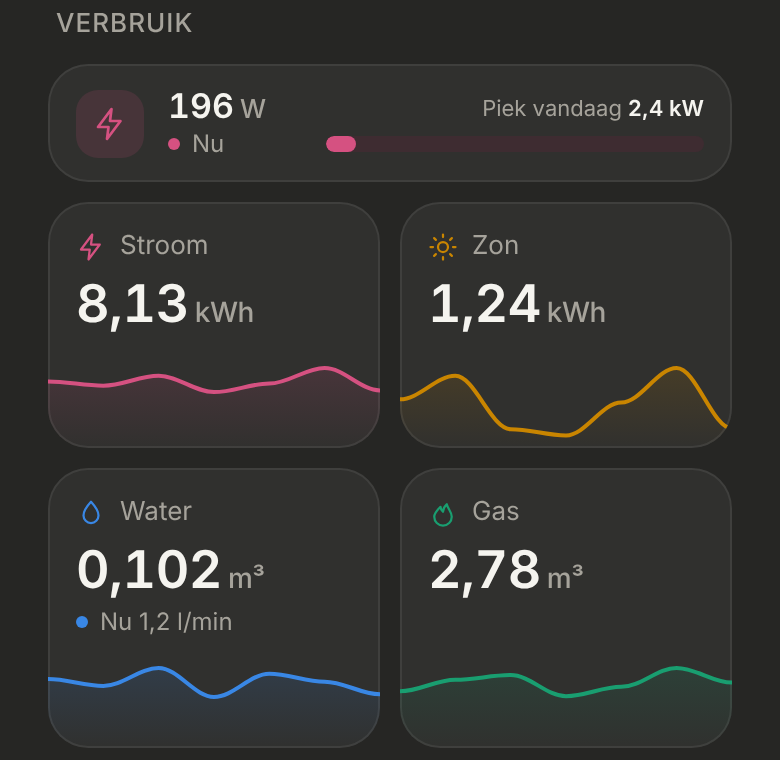
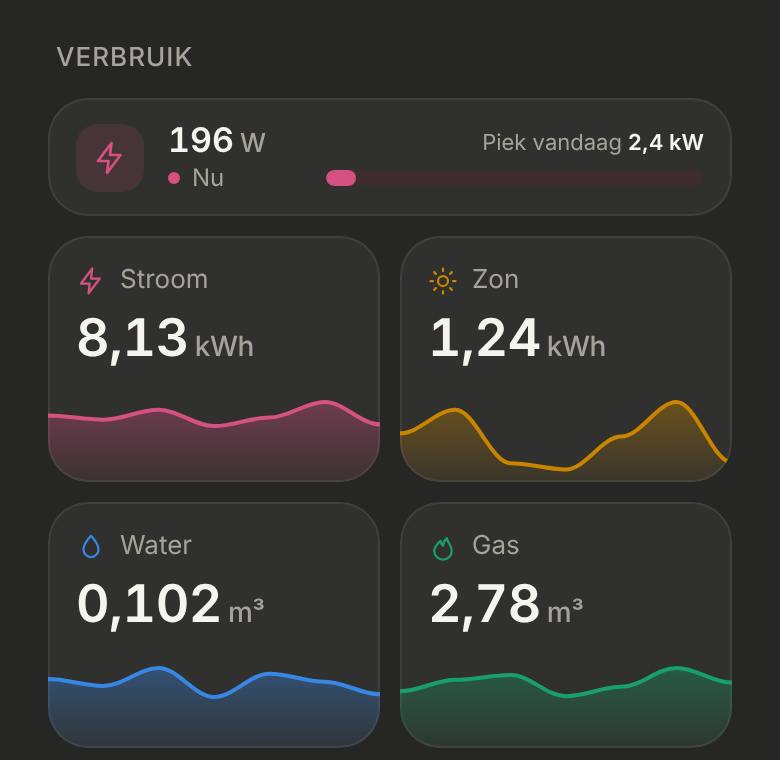
Verbruik: remove the water flow line, the sensor isn't connected
Claude-Session: https://claude.ai/code/session_01KM6EwXvT22zbGn1J5Xot1E

diff --git a/src/config/statistics.ts b/src/config/statistics.ts
@@ -30,8 +30,6 @@ export interface StatisticTileConfig {
   entity: string;
   /** Digits after the comma, e.g. 2 for "8,13 kWh". */
   decimals: number;
-  /** A live value under today's value, e.g. the water flow: "Nu 1,2 l/min". */
-  now?: { entity: string; unit: string; decimals: number };
 }
 
 /** The approved colours (docs/design/nutsvoorzieningen), validated together in this order. */
@@ -50,14 +48,7 @@ export const STATISTICS: StatisticsSectionConfig[] = [
     tiles: [
       { name: 'Stroom', icon: 'bolt', color: COLORS.stroom, entity: 'sensor.p1_meter_energy_consumption_daily', decimals: 2 },
       { name: 'Zon', icon: 'sun', color: COLORS.zon, entity: 'sensor.p1_meter_energy_production_daily', decimals: 2 },
-      {
-        name: 'Water',
-        icon: 'droplet',
-        color: COLORS.water,
-        entity: 'sensor.garage_water_meter_consumption_daily',
-        decimals: 3,
-        now: { entity: 'sensor.garage_water_meter_water_usage', unit: 'l/min', decimals: 2 },
-      },
+      { name: 'Water', icon: 'droplet', color: COLORS.water, entity: 'sensor.garage_water_meter_consumption_daily', decimals: 3 },
       { name: 'Gas', icon: 'flame', color: COLORS.gas, entity: 'sensor.gas_meter_consumption_daily', decimals: 2 },
     ],
   },

diff --git a/src/components/StatisticsSection.tsx b/src/components/StatisticsSection.tsx
@@ -96,7 +96,6 @@ interface StatisticTileProps {
 function StatisticTile({ hass, tile, previousDays }: StatisticTileProps) {
   const today = numberState(hass.states, tile.entity);
   const unit = String(hass.states[tile.entity]?.attributes.unit_of_measurement ?? '');
-  const valueNow = tile.now ? numberState(hass.states, tile.now.entity) : undefined;
   const lastSevenDays = today === undefined ? previousDays : [...previousDays, today];
 
   return (
@@ -109,11 +108,6 @@ function StatisticTile({ hass, tile, previousDays }: StatisticTileProps) {
         {today === undefined ? '–' : readableNumber(today, tile.decimals)}
         {today !== undefined && unit && <small>{unit}</small>}
       </b>
-      {tile.now && valueNow !== undefined && (
-        <span className="statistic-tile__now">
-          Nu {readableNumber(valueNow, tile.now.decimals)} {tile.now.unit}
-        </span>
-      )}
       <Sparkline values={lastSevenDays} color={tile.color} name={tile.name} />
     </div>
   );

diff --git a/src/styles.css b/src/styles.css
@@ -1754,8 +1754,7 @@ button.row:active { background: var(--accent-soft); }
 .statistic-tile__value small { margin-left: 3px; font-weight: 500; color: var(--text-muted); }
 .power-card__value small { font-size: 13px; }
 
-.power-card__now,
-.statistic-tile__now {
+.power-card__now {
   display: flex;
   align-items: center;
   gap: 6px;
@@ -1763,8 +1762,7 @@ button.row:active { background: var(--accent-soft); }
   color: var(--text-muted);
 }
 
-.power-card__now::before,
-.statistic-tile__now::before {
+.power-card__now::before {
   content: '';
   width: 6px;
   height: 6px;
@@ -1813,6 +1811,5 @@ button.row:active { background: var(--accent-soft); }
 }
 
 .statistic-tile__value small { font-size: 14px; }
-.statistic-tile__now { margin-top: 2px; }
 
 .statistic-tile__sparkline { height: 46px; margin: auto -14px 0; padding-top: 10px; box-sizing: content-box; }

diff --git a/src/dev/mockHass.ts b/src/dev/mockHass.ts
@@ -55,7 +55,6 @@ function baseStates(): HassEntities {
     entity('sensor.p1_meter_energy_consumption_daily', '8.13', { unit_of_measurement: 'kWh', state_class: 'total_increasing' }),
     entity('sensor.p1_meter_energy_production_daily', '1.24', { unit_of_measurement: 'kWh', state_class: 'total_increasing' }),
     entity('sensor.garage_water_meter_consumption_daily', '0.102', { unit_of_measurement: 'm³', state_class: 'total_increasing' }),
-    entity('sensor.garage_water_meter_water_usage', '1.2', { unit_of_measurement: 'L/min' }),
     entity('sensor.gas_meter_consumption_daily', '2.78', { unit_of_measurement: 'm³', state_class: 'total_increasing' }),
     // A MELCloud airco (docs/design/airco-sheet); the ID is the real one from src/config/rooms.ts.
     entity('climate.bedroom_marielou_airco', 'heat', {

diff --git a/docs/design/verbruik/README.md b/docs/design/verbruik/README.md
@@ -16,7 +16,7 @@ Source: [`mockup.html`](./mockup.html). The options for the water flow: [`option
 
 - **Title "Verbruik"** (was "Vandaag"), **below Snel**. Camera's isn't on master yet; when it is, it goes between them.
 - **Sparklines: the last 7 days, one point per day**, today last (was: today's history).
-- **Water flow is shown after all (W3):** a line "Nu 1,2 l/min" under the water tile's value, in the tile colour. No extra card.
+- **No water flow.** It was approved as a line "Nu 1,2 l/min" in the water tile (W3), then removed during the build at the owner's request: the flow sensor isn't connected. The mockup still shows the line.
 - **Feeding back** (the power sensor is negative): "850 W · Terug", **without a minus sign**, with the icon and dot in green (`#6bab3e`, not the Gas tile's aqua). The peak meter is hidden.
 - **A reusable section:** any number of sections, each with an optional live card and its own tiles. **Each tile's colour is set in the config**; the four approved colours are the defaults in the owner's config. Validated as a palette only in this order (Stroom, Zon / Water, Gas).
 - **Charts with ApexCharts** (`apexcharts/core` + `apexcharts/area`, pinned), at the owner's request.
@@ -34,4 +34,3 @@ Source: [`mockup.html`](./mockup.html). The options for the water flow: [`option
 | Piek vandaag | `recorder/statistic_during_period`, max of the power sensor since midnight |
 | Tile value | The daily sensor's state (it resets at midnight) |
 | Sparkline | `recorder/statistics_during_period`, period day, `change`: the 6 days before today, plus today's state |
-| "Nu … l/min" | The water flow sensor's state |
